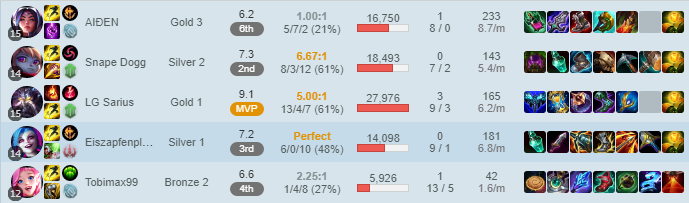
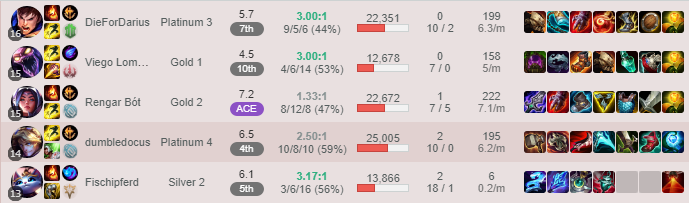
alpha

diff --git a/src/index.ts b/src/index.ts
@@ -1,29 +1,54 @@
 import playwright, { chromium } from 'playwright';
+import Discord from 'discord.js';
+import dotenv from 'dotenv';
 
-(async () => {
-    console.log('running');
+const send = true;
 
-    const browser = await chromium.launch();
-    const page = await browser.newPage();
-    await page.goto('https://euw.op.gg/summoner/userName=Eiszapfenplays');
-    await page.click('button:has-text("ZUSTIMMEN")');
-    await page.click('#SummonerRefreshButton');
+dotenv.config();
 
-    await sleep(3000);
-    
-    await page.click('.Button.MatchDetail .Off');
-    
-    await sleep(2000);
-    const element = await page.$('td:has-text("Eiszapfenplays")');
-    const example_parent = (await element?.$('xpath=..'));
-    const example_grandparent = (await element?.$('xpath=../..'));
-    await example_parent?.screenshot({ path: 'row.png', omitBackground: true });
-    await example_grandparent?.screenshot({ path: 'table.png', omitBackground: true });
+const client = new Discord.Client();
 
-    console.log('done');
-    
-    await browser.close();
-})();
+client.on('ready', () => {
+    console.log('client ready');
+})
+
+client.on('message', async message => {
+    if (message.channel.id === process.env.CHANNEL_ID && message.content.startsWith('!zehner')) {
+        console.log(`${message.author.username} has requested a zehner screenshot: ${message.content}`);
+        
+        if (send) message.reply('Moment ich schaue nach...');
+
+        const name = message.content.replace('!zehner', '').trim();
+
+        if (name) {
+            const elem = await getTableElement(name);
+            await elem.screenshot({ path: 'row.png', omitBackground: true });
+
+            const score = await getScore(elem);
+            const zehner = await isZehner(elem);
+
+            if (send && !zehner) {
+                console.log('Wasnt zehner... sending trump');
+
+                message.reply('Nee Atze...', {
+                    files: [
+                        './wrong.jpg'
+                    ]
+                });
+            } else if (send) {
+                console.log('was zehner... sending score');
+                message.reply('Ergebnis:', {
+                    files: [
+                        "./row.png"
+                    ]
+                });
+            }
+        }
+    }
+});
+
+client.login(process.env.DISCORD_TOKEN);
+
 
 function sleep (ms: number): Promise<void> {
     console.log(`waiting ${ms} ms`);
@@ -35,3 +60,70 @@ function sleep (ms: number): Promise<void> {
     });
 }
 
+async function getTableElement(name: string): Promise<playwright.ElementHandle<HTMLElement | SVGElement>> {
+    console.log('Fetching element...');
+
+    const browser = await chromium.launch();
+    const page = await browser.newPage();
+    await page.goto(`https://euw.op.gg/summoner/userName=${name}`);
+    await page.click('button:has-text("ZUSTIMMEN")');
+    await page.click('#SummonerRefreshButton');
+
+    await sleep(3000);
+
+    await page.click('.Button.MatchDetail .Off');
+
+    await sleep(2000);
+    const element = await page.$(`td:has-text("${name}")`);
+    const example_parent = (await element?.$('xpath=..'));
+    
+    console.log('Done getting the element');
+
+    return example_parent!;
+}
+
+async function getScore(elem: playwright.ElementHandle<HTMLElement | SVGElement>): Promise<string> {
+    const scoreElem = await (elem.$$('.OPScore.Text'));
+    if (scoreElem.length > 0) {
+        const score = (await scoreElem[0].textContent())!;
+        return score;
+    }
+    return '0'
+}
+
+async function isZehner(elem: playwright.ElementHandle<HTMLElement | SVGElement>): Promise<boolean> {
+    const placeElem = await (elem.$$('.OPScore.Badge'));
+    if (placeElem.length > 0) {
+        const place = (await placeElem[0].textContent()!);
+        if (place === '10th') return true;
+        return false;
+    }
+    return false;
+}
+    
+
+async function makeScreenshot(name: string) {
+    console.log('running');
+
+    const browser = await chromium.launch();
+    const page = await browser.newPage();
+    await page.goto(`https://euw.op.gg/summoner/userName=${name}`);
+    await page.click('button:has-text("ZUSTIMMEN")');
+    await page.click('#SummonerRefreshButton');
+
+    await sleep(3000);
+    
+    await page.click('.Button.MatchDetail .Off');
+    
+    await sleep(2000);
+    const element = await page.$(`td:has-text("${name}")`);
+    const example_parent = (await element?.$('xpath=..'));
+    const example_grandparent = (await element?.$('xpath=../..'));
+    const data = await example_parent?.screenshot({ path: 'row.png', omitBackground: true });
+    await example_grandparent?.screenshot({ path: 'table.png', omitBackground: true });
+
+    console.log('done');
+    
+    await browser.close();
+    return data;
+}
